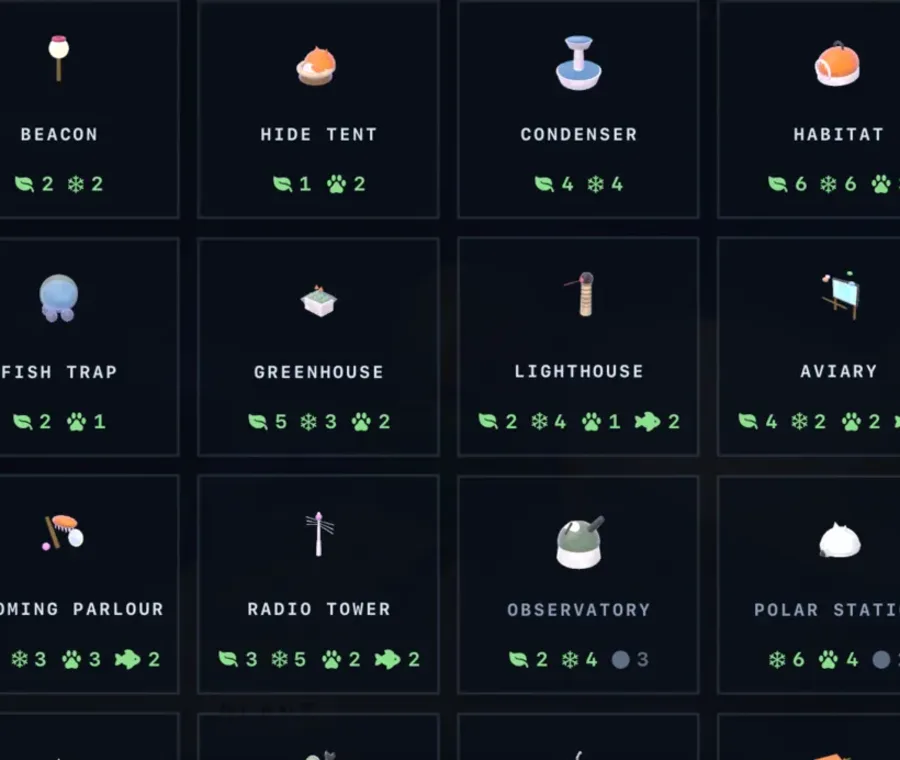
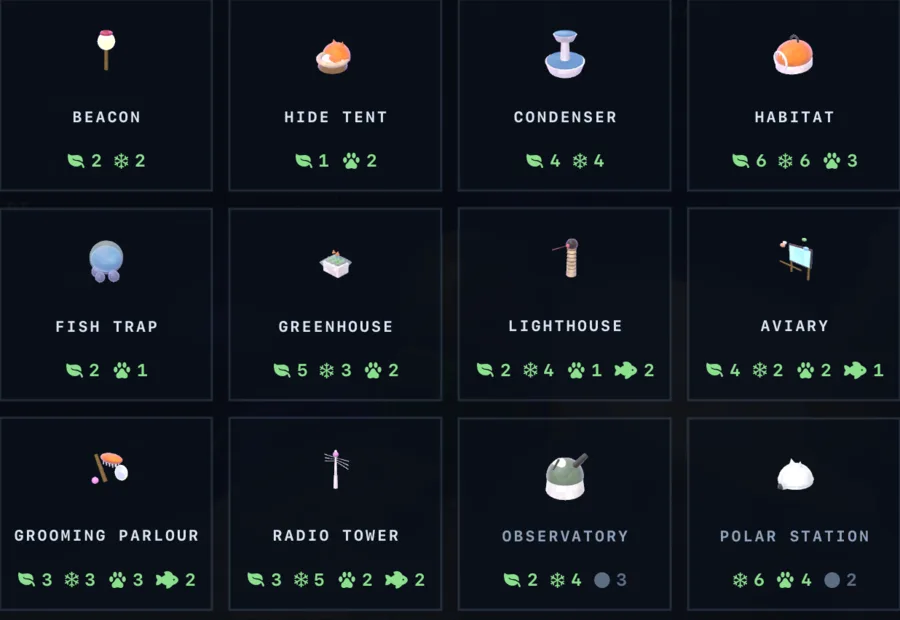
Pale Blue Pebble: real shots and portraits on every card, gauge cascade fix

diff --git a/palebluepebble/index.html b/palebluepebble/index.html
@@ -111,7 +111,7 @@
 
   .step .show { display: flex; gap: 8px; align-items: center; margin-top: 14px; }
   .step .show img { width: 76px; height: 76px; object-fit: contain; background: var(--panel); border: 1px solid var(--line); border-radius: 8px; padding: 4px; }
-  .step .show img.wide { width: 100%; height: 150px; object-fit: cover; object-position: center top; padding: 0; }
+  .step .show img.wide { width: 100%; height: 170px; object-fit: cover; object-position: center; padding: 0; }
 
   /* ---- log card ---- */
   .log {
@@ -122,10 +122,11 @@
   .log .eyebrow { margin-bottom: 8px; }
   .log .title { font-size: clamp(1.4rem, 4vw, 2rem); font-weight: 700; color: var(--leaf); letter-spacing: -0.01em; }
   .log p.line { color: #C9D2E3; margin-top: 12px; font-size: 0.96rem; max-width: 36em; }
-  .gauges { display: flex; flex-wrap: wrap; gap: 22px; margin-top: 20px; }
-  .gauge { font-size: 0.72rem; letter-spacing: 0.18em; text-transform: uppercase; color: var(--dim); }
+  .gauges { display: flex; flex-wrap: wrap; gap: 26px; margin-top: 20px; align-items: flex-start; }
+  .gauge { display: grid; grid-template-rows: auto auto; gap: 8px; font-size: 0.72rem; letter-spacing: 0.18em; text-transform: uppercase; color: var(--dim); white-space: nowrap; }
+  .gauge .lbl { display: block; line-height: 1.2; }
   .gauge b { color: var(--ink); font-weight: 700; margin-left: 6px; }
-  .bar { display: flex; gap: 3px; margin-top: 7px; }
+  .bar { display: flex; gap: 3px; flex-wrap: nowrap; }
   .bar i { width: 13px; height: 9px; border-radius: 2px; background: var(--line); }
   .bar.water i.on { background: var(--blue); } .bar.flora i.on { background: var(--leaf); } .bar.air i.on { background: #B8A6F5; } .bar.cat i.on { background: var(--amber); }
   .log p.fine { color: var(--dim); font-size: 0.82rem; margin-top: 18px; max-width: 44em; }
@@ -135,15 +136,18 @@
   .pair figure img { width: 100%; height: auto; display: block; border-radius: 10px; border: 1px solid var(--line); }
   .pair figcaption { font-family: var(--mono); font-size: 0.74rem; letter-spacing: 0.1em; color: var(--dim); margin-top: 9px; }
   .ladder { list-style: none; margin-top: 28px; display: grid; gap: 10px; }
-  .ladder li { display: grid; grid-template-columns: 150px 1fr; gap: 16px; align-items: baseline; padding: 14px 16px; background: var(--void2); border: 1px solid var(--line); border-radius: 8px; }
+  .ladder li { display: grid; grid-template-columns: 150px 200px 1fr; gap: 16px; align-items: center; padding: 14px 16px; background: var(--void2); border: 1px solid var(--line); border-radius: 8px; }
+  .ladder img { width: 200px; height: auto; border-radius: 6px; border: 1px solid var(--line); display: block; }
   .ladder .name { font-family: var(--mono); font-weight: 700; font-size: 0.9rem; color: var(--leaf); letter-spacing: 0.04em; }
   .ladder q { display: block; color: var(--ink); font-style: italic; quotes: "\201C" "\201D"; }
   .ladder .brings { display: block; font-family: var(--mono); font-size: 0.72rem; letter-spacing: 0.1em; text-transform: uppercase; color: var(--dim); margin-top: 6px; }
-  .air { display: flex; flex-wrap: wrap; gap: 8px; margin-top: 18px; font-family: var(--mono); font-size: 0.74rem; letter-spacing: 0.12em; text-transform: uppercase; }
-  .air span { padding: 7px 12px; border: 1px solid var(--line); border-radius: 4px; color: var(--dim); }
-  .air span.on { color: #B8A6F5; border-color: rgba(184,166,245,0.5); }
+  .airstages { display: flex; flex-wrap: wrap; gap: 8px; margin-top: 18px; font-family: var(--mono); font-size: 0.74rem; letter-spacing: 0.12em; text-transform: uppercase; }
+  .airstages span { padding: 7px 12px; border: 1px solid var(--line); border-radius: 4px; color: var(--dim); }
+  .airstages span.on { color: #B8A6F5; border-color: rgba(184,166,245,0.5); }
   .seasons { display: grid; grid-template-columns: repeat(2, 1fr); gap: 14px; margin-top: 28px; }
   .season { background: var(--void2); border: 1px solid var(--line); border-radius: 8px; padding: 20px; }
+  .season .plants { display: flex; gap: 8px; margin-top: 14px; }
+  .season .plants img { width: 64px; height: 64px; object-fit: contain; background: var(--panel); border: 1px solid var(--line); border-radius: 8px; padding: 3px; }
   .season h3 { font-family: var(--mono); font-size: 0.8rem; letter-spacing: 0.24em; text-transform: uppercase; margin-bottom: 8px; }
   .season.spring h3 { color: #F5A3C7; } .season.summer h3 { color: var(--amber); } .season.autumn h3 { color: #F0946B; } .season.winter h3 { color: var(--blue); }
   .season p { font-size: 0.94rem; line-height: 1.55; max-width: none; }
@@ -155,13 +159,14 @@
   .mate p { font-size: 0.92rem; line-height: 1.5; margin-top: 4px; max-width: none; }
   .mate q { color: var(--amber); font-style: italic; quotes: "\201C" "\201D"; }
   .bgrid { display: grid; grid-template-columns: repeat(3, 1fr); gap: 10px; margin-top: 24px; }
-  .bgrid div { background: var(--void2); border: 1px solid var(--line); border-radius: 8px; padding: 12px 14px; }
+  .bgrid div { display: grid; grid-template-columns: 52px 1fr; gap: 12px; align-items: center; background: var(--void2); border: 1px solid var(--line); border-radius: 8px; padding: 12px 14px; }
+  .bgrid img { width: 52px; height: 52px; object-fit: contain; background: var(--panel); border-radius: 8px; }
   .bgrid b { display: block; font-family: var(--mono); font-size: 0.8rem; letter-spacing: 0.06em; }
   .bgrid span { font-size: 0.86rem; color: var(--dim); line-height: 1.45; }
   .wear { display: flex; flex-wrap: wrap; gap: 8px; margin-top: 22px; }
   .wear span { font-family: var(--mono); font-size: 0.74rem; letter-spacing: 0.08em; padding: 7px 11px; border: 1px solid var(--line); border-radius: 4px; color: var(--ink); background: var(--void2); }
   .quote { margin-top: 22px; padding: 18px 22px; border-left: 3px solid var(--amber); background: var(--void2); font-family: var(--mono); color: #C9D2E3; font-size: 0.95rem; max-width: 40em; }
-  @media (max-width: 720px) { .pair, .seasons, .crew { grid-template-columns: 1fr; } .bgrid { grid-template-columns: 1fr 1fr; } .ladder li { grid-template-columns: 1fr; gap: 4px; } }
+  @media (max-width: 720px) { .pair, .seasons, .crew { grid-template-columns: 1fr; } .bgrid { grid-template-columns: 1fr 1fr; } .ladder li { grid-template-columns: 1fr; gap: 8px; } .ladder img { width: 100%; } }
 
   /* ---- shots ---- */
   .shots { display: flex; gap: 16px; overflow-x: auto; margin-top: 30px; padding: 4px 24px 18px; scroll-snap-type: x mandatory; -webkit-overflow-scrolling: touch; }
@@ -205,6 +210,7 @@
   a.plain:hover { color: var(--amber); text-decoration: underline; }
   .others { display: grid; grid-template-columns: repeat(2, 1fr); gap: 14px; margin-top: 22px; }
   .other { border: 1px solid var(--line); border-radius: 8px; padding: 18px 20px; background: var(--void2); }
+  .other img { width: 100%; height: 120px; object-fit: cover; border-radius: 6px; margin-bottom: 12px; display: block; }
   .other h3 { font-family: var(--mono); font-size: 0.98rem; margin-bottom: 4px; }
   .other p { font-size: 0.9rem; margin-bottom: 10px; }
 
@@ -270,13 +276,13 @@
           <span class="verb">PLANT</span>
           <h3>Put a seedling in the ground</h3>
           <p>The pack has seeds and the ground is waiting. Once a tree takes, it drops pods of its own, and the grove starts spreading without you.</p>
-          <div class="show"><img src="img/guide/oak.webp" width="76" height="76" loading="lazy" alt="oak"><img src="img/guide/birch.webp" width="76" height="76" loading="lazy" alt="birch"><img src="img/guide/sunbloom.webp" width="76" height="76" loading="lazy" alt="sunbloom"><img src="img/guide/blossom.webp" width="76" height="76" loading="lazy" alt="blossom"></div>
+          <div class="show"><img class="wide" src="img/verb-plant.webp" width="900" height="504" loading="lazy" alt="The cat beside a young sapling on green ground, with the note: a tree dropped a seed pod, the grove is feeding itself."></div>
         </div>
         <div class="step">
           <span class="verb">MELT</span>
           <h3>Dig a hollow, thaw the ice</h3>
           <p>Roots are thirsty things. Dig a bowl, melt dirty ice into it, and a puddle becomes a pool becomes a lake.</p>
-          <div class="show"><img class="wide" src="img/verb-melt.webp" width="900" height="674" loading="lazy" alt="The Pebble seen from orbit with several dark blue lakes on its green surface."></div>
+          <div class="show"><img class="wide" src="img/verb-melt.webp" width="900" height="300" loading="lazy" alt="The Pebble seen from orbit at Home, its dug lakes dark blue against the green, a beacon glowing on the top ridge."></div>
         </div>
         <div class="step">
           <span class="verb">ZAP</span>
@@ -288,7 +294,7 @@
           <span class="verb">BUILD</span>
           <h3>Raise a camp from the lander</h3>
           <p>A beacon against the dark. A tent by the grove. A condenser, a habitat, a radio tower. Then send a signal and see what answers.</p>
-          <div class="show"><img class="wide" src="img/verb-build.webp" width="900" height="674" loading="lazy" alt="The blueprints panel at the lander: beacon, hide tent, condenser, habitat, fish trap, greenhouse, lighthouse, aviary and more, each with its price."></div>
+          <div class="show"><img class="wide" src="img/verb-build.webp" width="900" height="620" loading="lazy" alt="The blueprints at the lander: beacon, hide tent, condenser, habitat, fish trap, greenhouse, lighthouse, aviary, grooming parlour, radio tower, observatory and polar station, each with its price."></div>
         </div>
       </div>
       <div class="log">
@@ -296,10 +302,10 @@
         <p class="title">Small world</p>
         <p class="line">The horizon is farther than it was. Your boots are the same size.</p>
         <div class="gauges">
-          <div class="gauge">Water<b>Optimal</b><div class="bar water"><i class="on"></i><i class="on"></i><i class="on"></i><i class="on"></i><i class="on"></i><i class="on"></i><i class="on"></i><i></i></div></div>
-          <div class="gauge">Flora<b>Optimal</b><div class="bar flora"><i class="on"></i><i class="on"></i><i class="on"></i><i class="on"></i><i class="on"></i><i class="on"></i><i class="on"></i><i class="on"></i></div></div>
-          <div class="gauge">Air<b>Thin</b><div class="bar air"><i class="on"></i><i class="on"></i><i class="on"></i><i class="on"></i><i></i><i></i><i></i><i></i></div></div>
-          <div class="gauge">Cat<b>Bright</b><div class="bar cat"><i class="on"></i><i class="on"></i><i class="on"></i><i class="on"></i><i class="on"></i><i class="on"></i><i></i><i></i></div></div>
+          <div class="gauge"><span class="lbl">Water<b>Optimal</b></span><div class="bar water"><i class="on"></i><i class="on"></i><i class="on"></i><i class="on"></i><i class="on"></i><i class="on"></i><i class="on"></i><i></i></div></div>
+          <div class="gauge"><span class="lbl">Flora<b>Optimal</b></span><div class="bar flora"><i class="on"></i><i class="on"></i><i class="on"></i><i class="on"></i><i class="on"></i><i class="on"></i><i class="on"></i><i class="on"></i></div></div>
+          <div class="gauge"><span class="lbl">Air<b>Thin</b></span><div class="bar air"><i class="on"></i><i class="on"></i><i class="on"></i><i class="on"></i><i></i><i></i><i></i><i></i></div></div>
+          <div class="gauge"><span class="lbl">Cat<b>Bright</b></span><div class="bar cat"><i class="on"></i><i class="on"></i><i class="on"></i><i class="on"></i><i class="on"></i><i class="on"></i><i></i><i></i></div></div>
         </div>
         <p class="fine">Water, flora and air belong to the Pebble. The fourth gauge is the cat's own. It drains as she walks about and a nap refills it. A drowsy cat drags her paws, and that is the whole penalty. Nothing out here kills you.</p>
       </div>
@@ -316,15 +322,15 @@
         <figure><img src="img/orbit-blue.webp" width="1400" height="689" loading="lazy" alt="The whole Pebble, green and blue under white cloud, hanging small in a violet nebula. The cat is a speck on its lit horizon."><figcaption>The same rock, pinched all the way out to orbit.</figcaption></figure>
       </div>
       <ol class="ladder">
-        <li><span class="name">Small world</span><span><q>The horizon is farther than it was. Your boots are the same size.</q><span class="brings">Meteors begin</span></span></li>
-        <li><span class="name">Young planet</span><span><q>Weather has seasons now. Somewhere it is raining on nobody.</q><span class="brings">Seasons arrive, and so does the decline</span></span></li>
-        <li><span class="name">Home</span><span><q>You stopped counting trees. The rock you landed on is a planet with a name, and the name is yours.</q><span class="brings">Lighthouse, radio tower, the rover</span></span></li>
-        <li><span class="name">Wide world</span><span><q>The lander is a speck from the far ridge. You could walk for a day and not come back round.</q><span class="brings">Aviary, grooming parlour</span></span></li>
-        <li><span class="name">Blue Pebble</span><span><q>From orbit it would be blue now. Nobody is in orbit. That can change.</q><span class="brings">Ice caps, auroras, four polar animals, the parka</span></span></li>
-        <li><span class="name">World</span><span><q>It has a horizon. Things live past it that you have never met.</q><span class="brings">And it keeps going. The ladder never stops</span></span></li>
+        <li><span class="name">Small world</span><img src="img/ladder/small-world.webp" width="520" height="470" loading="lazy" alt=""><span><q>The horizon is farther than it was. Your boots are the same size.</q><span class="brings">Meteors begin</span></span></li>
+        <li><span class="name">Young planet</span><img src="img/ladder/young-planet.webp" width="520" height="470" loading="lazy" alt=""><span><q>Weather has seasons now. Somewhere it is raining on nobody.</q><span class="brings">Seasons arrive, and so does the decline</span></span></li>
+        <li><span class="name">Home</span><img src="img/ladder/home.webp" width="520" height="470" loading="lazy" alt=""><span><q>You stopped counting trees. The rock you landed on is a planet with a name, and the name is yours.</q><span class="brings">Lighthouse, radio tower, the rover</span></span></li>
+        <li><span class="name">Wide world</span><img src="img/ladder/wide-world.webp" width="520" height="470" loading="lazy" alt=""><span><q>The lander is a speck from the far ridge. You could walk for a day and not come back round.</q><span class="brings">Aviary, grooming parlour</span></span></li>
+        <li><span class="name">Blue Pebble</span><img src="img/ladder/blue-pebble.webp" width="520" height="470" loading="lazy" alt=""><span><q>From orbit it would be blue now. Nobody is in orbit. That can change.</q><span class="brings">Ice caps, auroras, four polar animals, the parka</span></span></li>
+        <li><span class="name">World</span><img src="img/ladder/world.webp" width="520" height="470" loading="lazy" alt=""><span><q>It has a horizon. Things live past it that you have never met.</q><span class="brings">And it keeps going. The ladder never stops</span></span></li>
       </ol>
       <p style="margin-top:28px;">Separately, the air thickens. Five stages gate the early buildings and the suit, and the quietest one is the best: at <strong>Living world</strong> the helmet comes off. Let the gauges slip and it goes back on.</p>
-      <div class="air"><span>Barren rock</span><span>First thaw</span><span>Green shoots</span><span class="on">Living world</span><span>Flourishing</span></div>
+      <div class="airstages"><span>Barren rock</span><span>First thaw</span><span>Green shoots</span><span class="on">Living world</span><span>Flourishing</span></div>
     </div>
   </section>
 
@@ -333,10 +339,10 @@
       <h2>The seasons</h2>
       <p class="big">Twenty minutes to a year. What you plant takes the season's shape, and each season breaks something different.</p>
       <div class="seasons">
-        <div class="season spring"><h3>Spring</h3><p>Blossom, at any height. The ice lets go and the polar animals head home. Paws are quicker in the warm, and once in a while a blossom drops a dye instead of a pod.</p></div>
-        <div class="season summer"><h3>Summer</h3><p>Birch up high, broadleaf in the middle, palms on the shore. The pools shrink three times as fast. Sunblooms sow themselves beside the grove: nobody planted them, everybody looks at them, and they drink like three trees each.</p></div>
-        <div class="season autumn"><h3>Autumn</h3><p>Maple up high, oak below. One pod in four turns into something else. Half of all autumns bring a storm: ten seconds of rain, then the flood, then a rainbow for exactly as long as it takes to look at it.</p></div>
-        <div class="season winter"><h3>Winter</h3><p>Pine and evergreen. Snow settles from the peaks down until every pool freezes over. Walk on the ice, or skate it. The cold takes the oldest ordinary tree now and then. The polar animals come down off the caps, carrying double.</p></div>
+        <div class="season spring"><h3>Spring</h3><p>Blossom, at any height. The ice lets go and the polar animals head home. Paws are quicker in the warm, and once in a while a blossom drops a dye instead of a pod.</p><div class="plants"><img src="img/guide/blossom.webp" width="64" height="64" loading="lazy" alt="blossom"></div></div>
+        <div class="season summer"><h3>Summer</h3><p>Birch up high, broadleaf in the middle, palms on the shore. The pools shrink three times as fast. Sunblooms sow themselves beside the grove: nobody planted them, everybody looks at them, and they drink like three trees each.</p><div class="plants"><img src="img/guide/birch.webp" width="64" height="64" loading="lazy" alt="birch"><img src="img/guide/broadleaf.webp" width="64" height="64" loading="lazy" alt="broadleaf"><img src="img/guide/palm.webp" width="64" height="64" loading="lazy" alt="palm"><img src="img/guide/sunbloom.webp" width="64" height="64" loading="lazy" alt="sunbloom"></div></div>
+        <div class="season autumn"><h3>Autumn</h3><p>Maple up high, oak below. One pod in four turns into something else. Half of all autumns bring a storm: ten seconds of rain, then the flood, then a rainbow for exactly as long as it takes to look at it.</p><div class="plants"><img src="img/guide/maple.webp" width="64" height="64" loading="lazy" alt="maple"><img src="img/guide/oak.webp" width="64" height="64" loading="lazy" alt="oak"></div></div>
+        <div class="season winter"><h3>Winter</h3><p>Pine and evergreen. Snow settles from the peaks down until every pool freezes over. Walk on the ice, or skate it. The cold takes the oldest ordinary tree now and then. The polar animals come down off the caps, carrying double.</p><div class="plants"><img src="img/guide/pine.webp" width="64" height="64" loading="lazy" alt="pine"><img src="img/guide/evergreen.webp" width="64" height="64" loading="lazy" alt="evergreen"><img src="img/guide/frost-fern.webp" width="64" height="64" loading="lazy" alt="frost-fern"></div></div>
       </div>
       <div class="pair">
         <figure><img src="img/winter.webp" width="1200" height="590" loading="lazy" alt="A green hillside under falling snow, the cat standing on the ridge, the sky washed pale."><figcaption>Winter, settling from the peaks down.</figcaption></figure>
@@ -478,21 +484,21 @@
       <p class="big">Twenty-seven buildings, and every one of them is a cat object.</p>
       <p style="margin-top:18px;">Blueprints are taken at the lander and carried to where they will stand. Nothing on the Pebble is a generic sci-fi prop. The beacon is a collar bell on a post. The tent is a wicker cat bed with an eared hood. The condenser is a drinking fountain, the habitat a cat carrier with a barred door, the fish trap a goldfish bowl on stones. The greenhouse grows cat grass. The lighthouse is a scratching post swinging a laser pointer. The aviary is Cat TV. The parlour is a giant brush with a mirror, the observatory a cat's-eye dome, the polar station an igloo cat house with ears. The launch pad wears a painted paw, the orchard keeps a scare-cat, and the windmill spins four striped tails.</p>
       <div class="bgrid">
-        <div><b>Beacon</b><span>A lamp for the night side. Borers keep off, meteors turn away.</span></div>
-        <div><b>Hide tent</b><span>Critters leave the pods alone nearby.</span></div>
-        <div><b>Condenser</b><span>A block of ice out of the air, every minute.</span></div>
-        <div><b>Greenhouse</b><span>A seed at a time, in any weather.</span></div>
-        <div><b>Habitat</b><span>Trees nearby drop pods twice as often.</span></div>
-        <div><b>Fish trap</b><span>Goes in the water. Fish come out.</span></div>
-        <div><b>Lighthouse</b><span>Keeps the nippers off the shore.</span></div>
-        <div><b>Radio tower</b><span>Call into the dark. It is counted.</span></div>
-        <div><b>Aviary</b><span>Birds settle, and each one counts as growth.</span></div>
-        <div><b>Grooming parlour</b><span>The salon. The cat's own colours.</span></div>
-        <div><b>Observatory</b><span>A sky forecast: next aurora, next meteor.</span></div>
-        <div><b>Polar station</b><span>The animals gather round it. Rest there.</span></div>
-        <div><b>Orchard</b><span>Seeds by the handful, and it counts as a grove.</span></div>
-        <div><b>Windmill</b><span>Everything nearby runs twice as fast.</span></div>
-        <div><b>Launch pad</b><span>Ten loads of fuel. Then a button that says LAUNCH.</span></div>
+        <div><img src="img/guide/b-beacon.webp" width="52" height="52" loading="lazy" alt=""><span><b>Beacon</b><span>A lamp for the night side. Borers keep off, meteors turn away.</span></span></div>
+        <div><img src="img/guide/b-hide-tent.webp" width="52" height="52" loading="lazy" alt=""><span><b>Hide tent</b><span>Critters leave the pods alone nearby.</span></span></div>
+        <div><img src="img/guide/b-condenser.webp" width="52" height="52" loading="lazy" alt=""><span><b>Condenser</b><span>A block of ice out of the air, every minute.</span></span></div>
+        <div><img src="img/guide/b-greenhouse.webp" width="52" height="52" loading="lazy" alt=""><span><b>Greenhouse</b><span>A seed at a time, in any weather.</span></span></div>
+        <div><img src="img/guide/b-habitat.webp" width="52" height="52" loading="lazy" alt=""><span><b>Habitat</b><span>Trees nearby drop pods twice as often.</span></span></div>
+        <div><img src="img/guide/b-fish-trap.webp" width="52" height="52" loading="lazy" alt=""><span><b>Fish trap</b><span>Goes in the water. Fish come out.</span></span></div>
+        <div><img src="img/guide/b-lighthouse.webp" width="52" height="52" loading="lazy" alt=""><span><b>Lighthouse</b><span>Keeps the nippers off the shore.</span></span></div>
+        <div><img src="img/guide/b-radio-tower.webp" width="52" height="52" loading="lazy" alt=""><span><b>Radio tower</b><span>Call into the dark. It is counted.</span></span></div>
+        <div><img src="img/guide/b-aviary.webp" width="52" height="52" loading="lazy" alt=""><span><b>Aviary</b><span>Birds settle, and each one counts as growth.</span></span></div>
+        <div><img src="img/guide/b-grooming-parlour.webp" width="52" height="52" loading="lazy" alt=""><span><b>Grooming parlour</b><span>The salon. The cat's own colours.</span></span></div>
+        <div><img src="img/guide/b-observatory.webp" width="52" height="52" loading="lazy" alt=""><span><b>Observatory</b><span>A sky forecast: next aurora, next meteor.</span></span></div>
+        <div><img src="img/guide/b-polar-station.webp" width="52" height="52" loading="lazy" alt=""><span><b>Polar station</b><span>The animals gather round it. Rest there.</span></span></div>
+        <div><img src="img/guide/b-orchard.webp" width="52" height="52" loading="lazy" alt=""><span><b>Orchard</b><span>Seeds by the handful, and it counts as a grove.</span></span></div>
+        <div><img src="img/guide/b-windmill.webp" width="52" height="52" loading="lazy" alt=""><span><b>Windmill</b><span>Everything nearby runs twice as fast.</span></span></div>
+        <div><img src="img/guide/b-launch-pad.webp" width="52" height="52" loading="lazy" alt=""><span><b>Launch pad</b><span>Ten loads of fuel. Then a button that says LAUNCH.</span></span></div>
       </div>
       <p style="margin-top:22px;">Every building has a Mk II, and most have a Mk III. Two of them are shops: the sewing den for soft goods, the tinker shed for hardware. Hold a finger on anything for half a second and a card tells you what it is, what it drops, and how it is doing right now.</p>
     </div>
@@ -536,11 +542,13 @@
       <p style="margin-top:14px;">The launch pad takes ten loads of fuel and then offers one button. Where the rocket goes is the part we are not telling you.</p>
       <div class="others">
         <div class="other">
+          <img src="/img/card-governor.png" width="620" height="250" loading="lazy" alt="">
           <h3>Governor: Free Republic</h3>
           <p>Real-time naval strategy. A charter, one frigate, and a sea full of pirates.</p>
           <a class="plain" href="https://apps.apple.com/app/id6803666380">Get it on the App Store &rarr;</a>
         </div>
         <div class="other">
+          <img src="/img/card-yapoff.png" width="620" height="250" loading="lazy" alt="">
           <h3>YapOff</h3>
           <p>A pass-the-phone party word game. Twenty words, thirty seconds, one judge.</p>
           <a class="plain" href="https://apps.apple.com/app/id6803661002">Get it on the App Store &rarr;</a>
